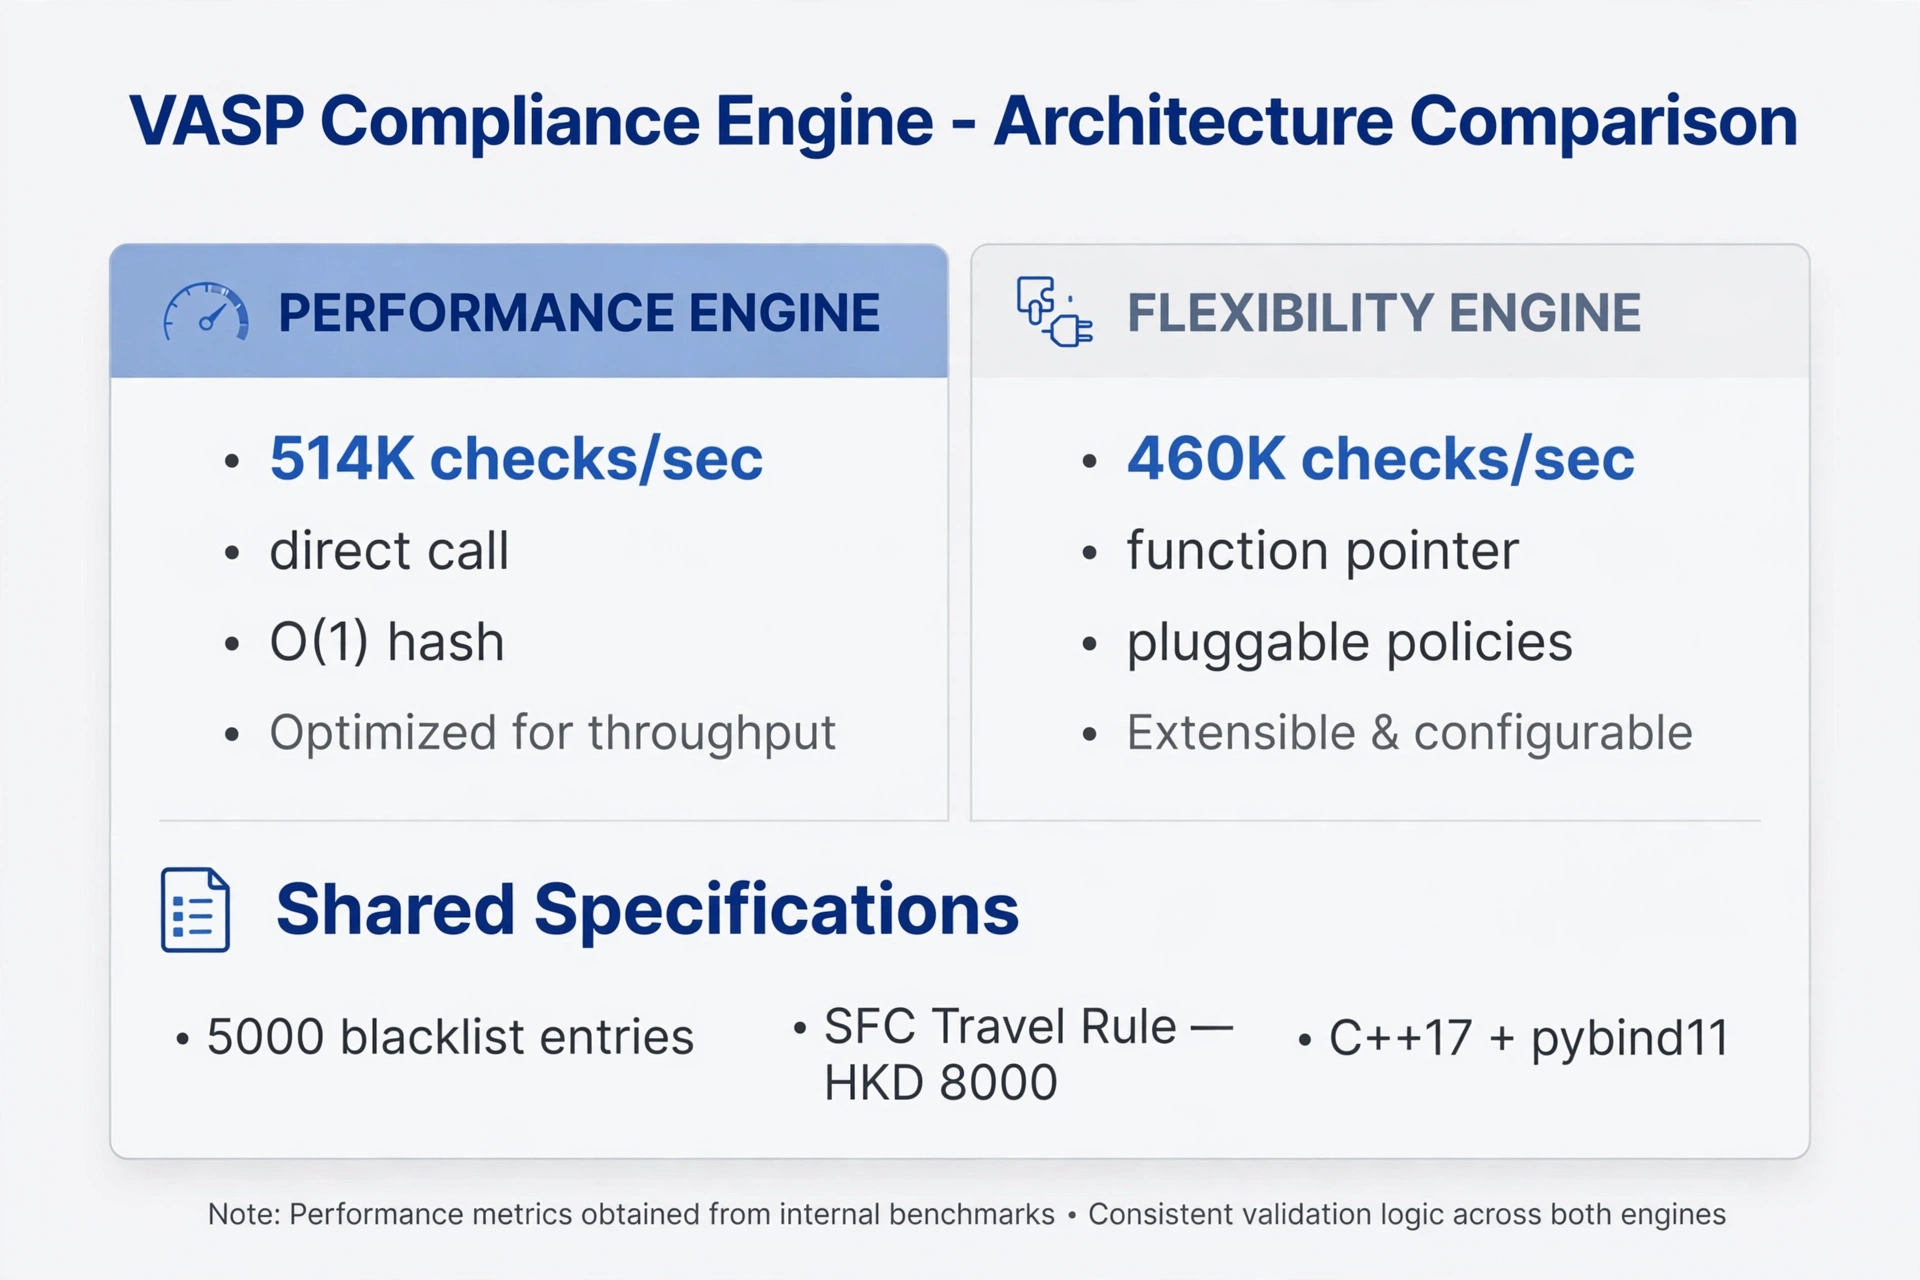
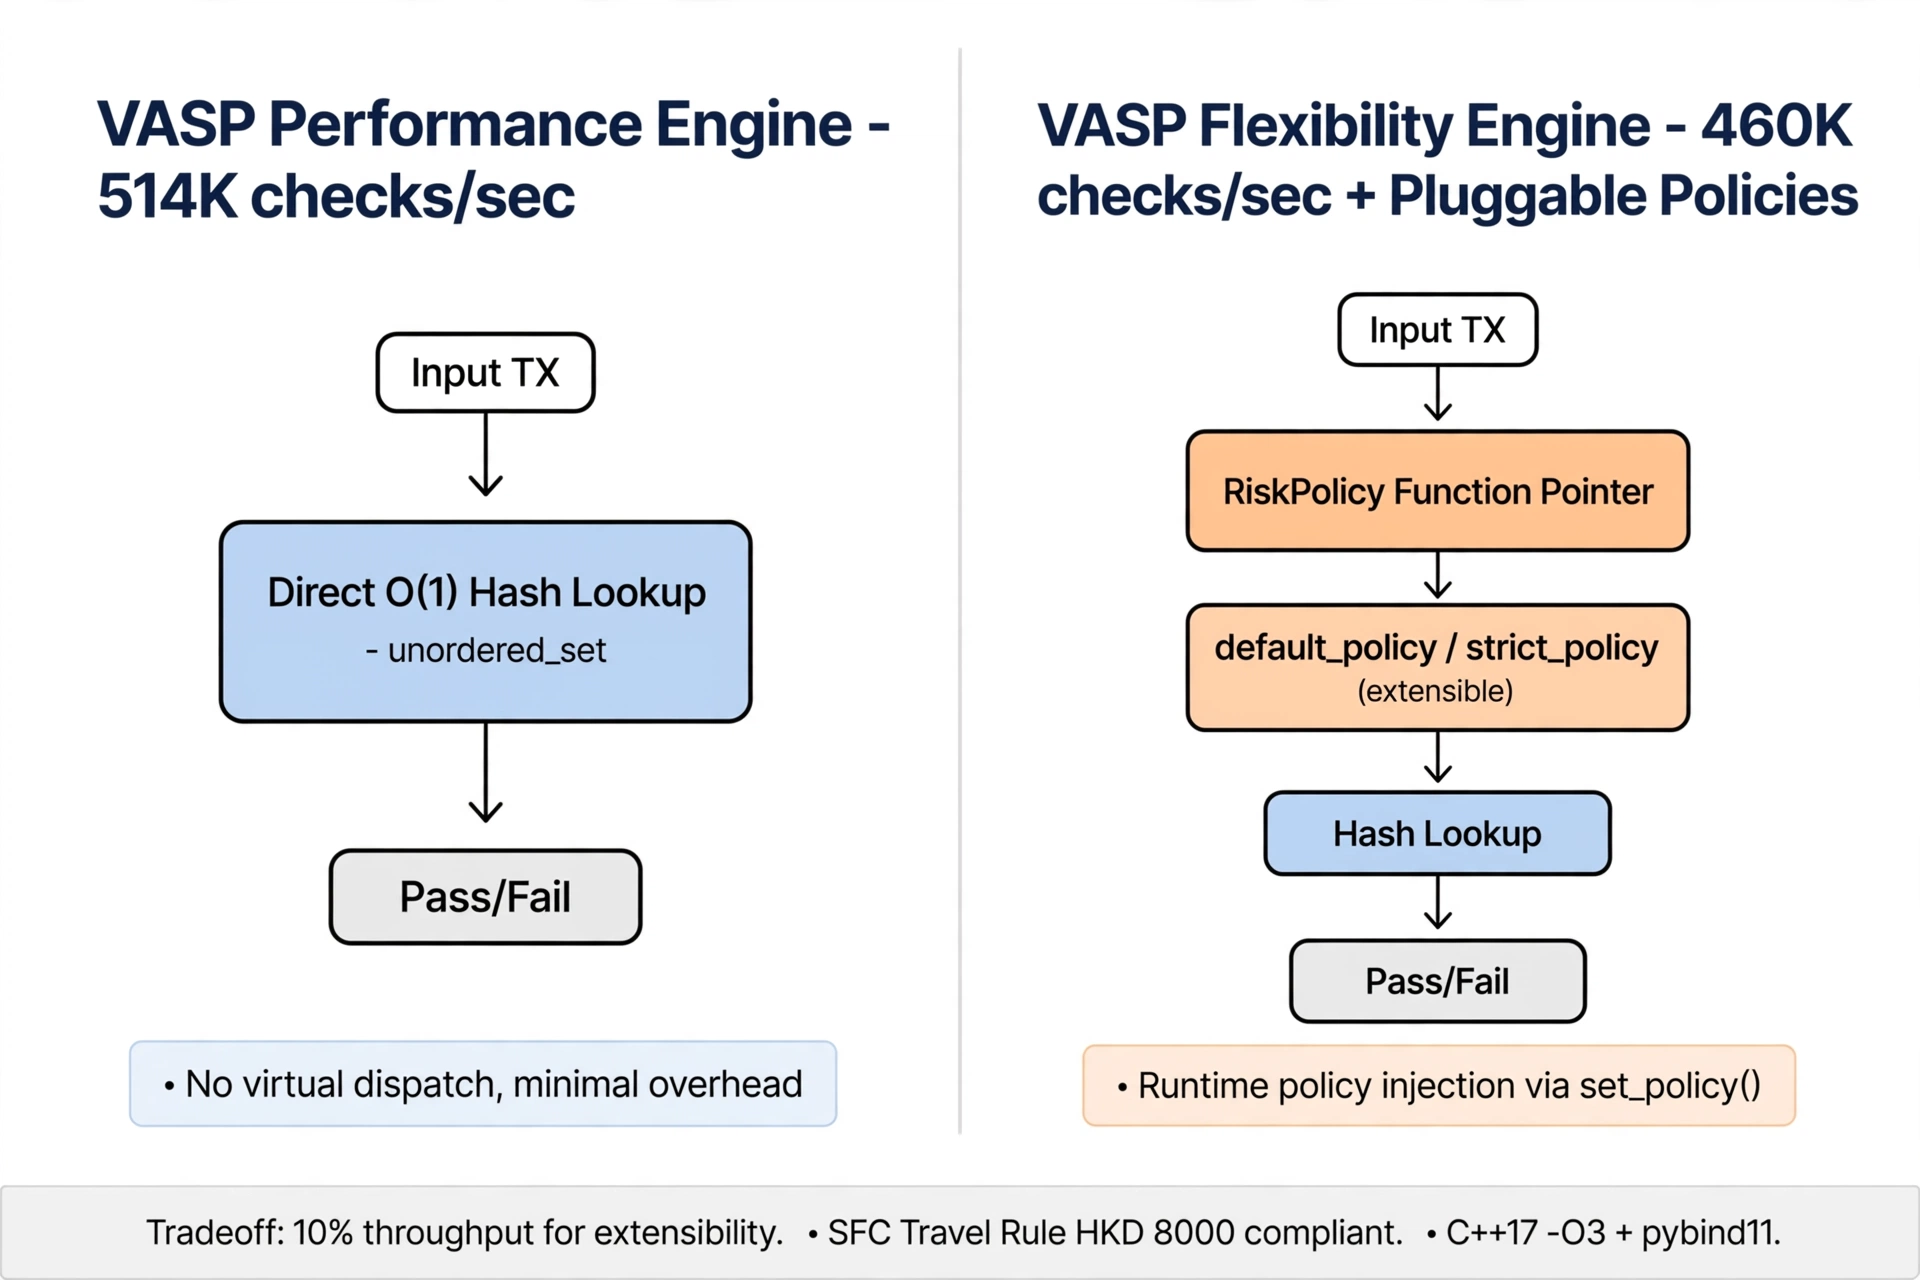
Update architecture with OSL/HashKey branding + fix image path

Changed region(s): [[0.0312, 0.0625, 0.9688, 1.0], [0.0625, 0.625, 0.5312, 0.75]]

diff --git a/README.md b/README.md
@@ -1,8 +1,20 @@
 # VASP Flexibility Engine - 460K checks/sec + Pluggable Policies
 
-![Architecture](https://raw.githubusercontent.com/nsmanju/vasp-flexibility-engine/main/docs/architecture.png)
+Extensible VASP compliance engine - Function pointer architecture.
+
+![Architecture Comparison](https://raw.githubusercontent.com/nsmanju/vasp-flexibility-engine/main/docs/architecture.png)
 
 ## Benchmark
-460K checks/sec, Function pointer RiskPolicy, SFC Travel Rule HKD 8000
+| Metric | Value |
+|--------|-------|
+| Throughput | 460,163 checks/sec |
+| Architecture | Function pointer RiskPolicy |
+| Blacklist | 5,000 entries |
+| Policies | default_policy, strict_policy |
+| Compliance | SFC Travel Rule HKD 8000 |
+| Target | OSL \| HashKey - Staff Engineer |
 
-See: https://github.com/nsmanju/vasp-performance-engine
+## Build
+```bash
+make clean && make && make test
+EOF
